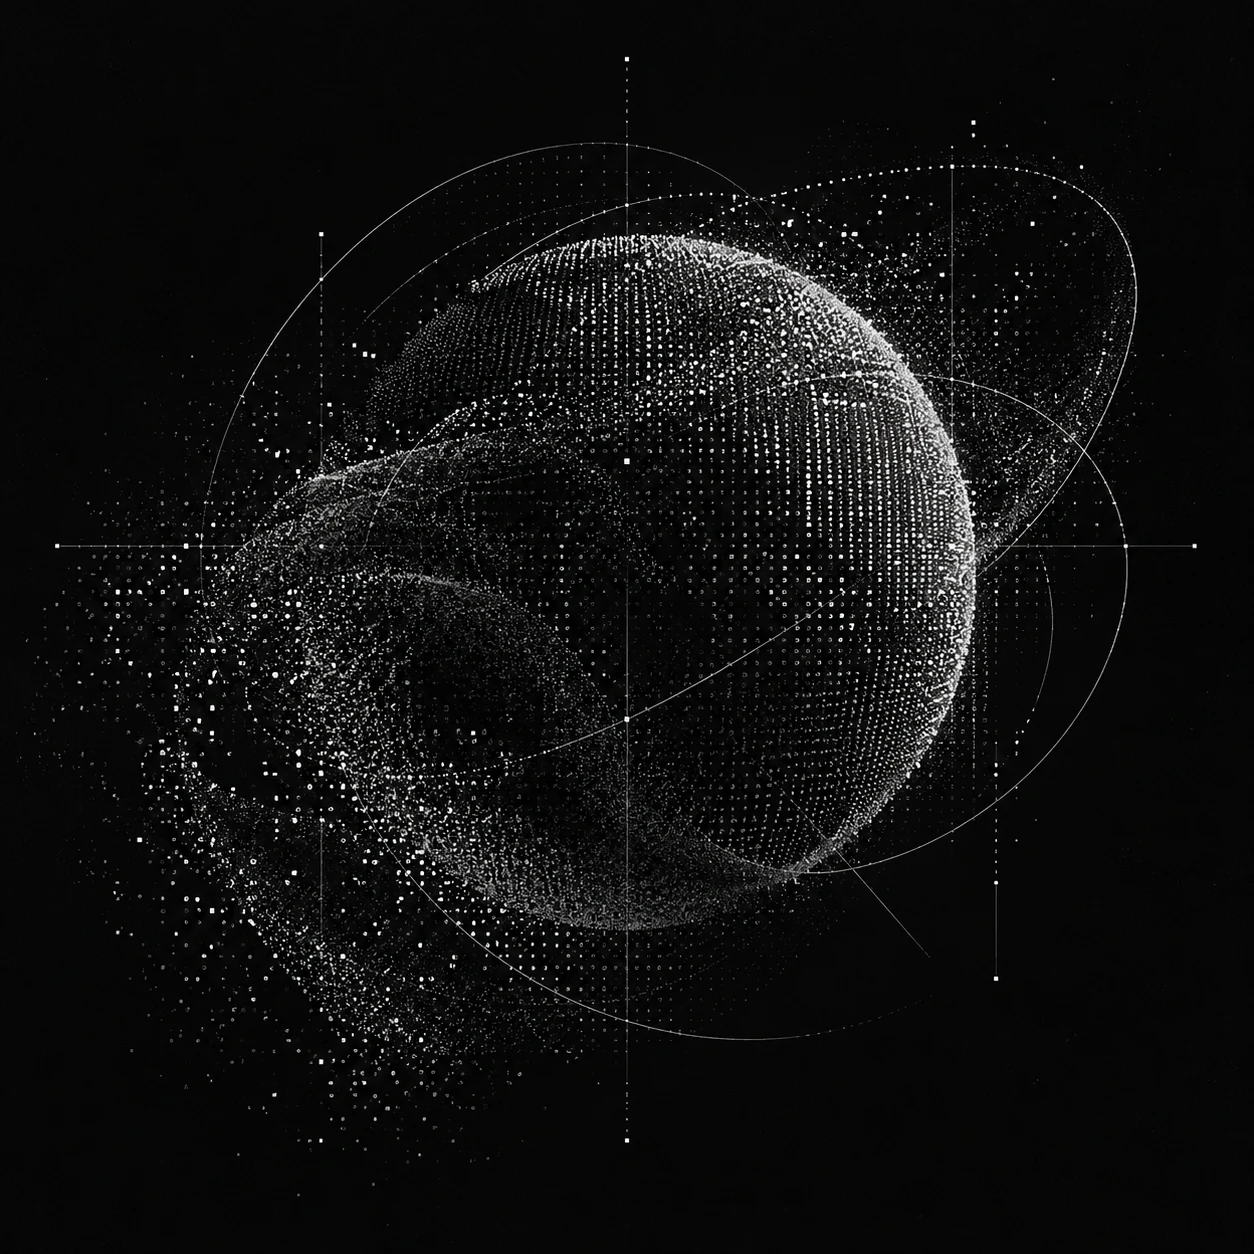
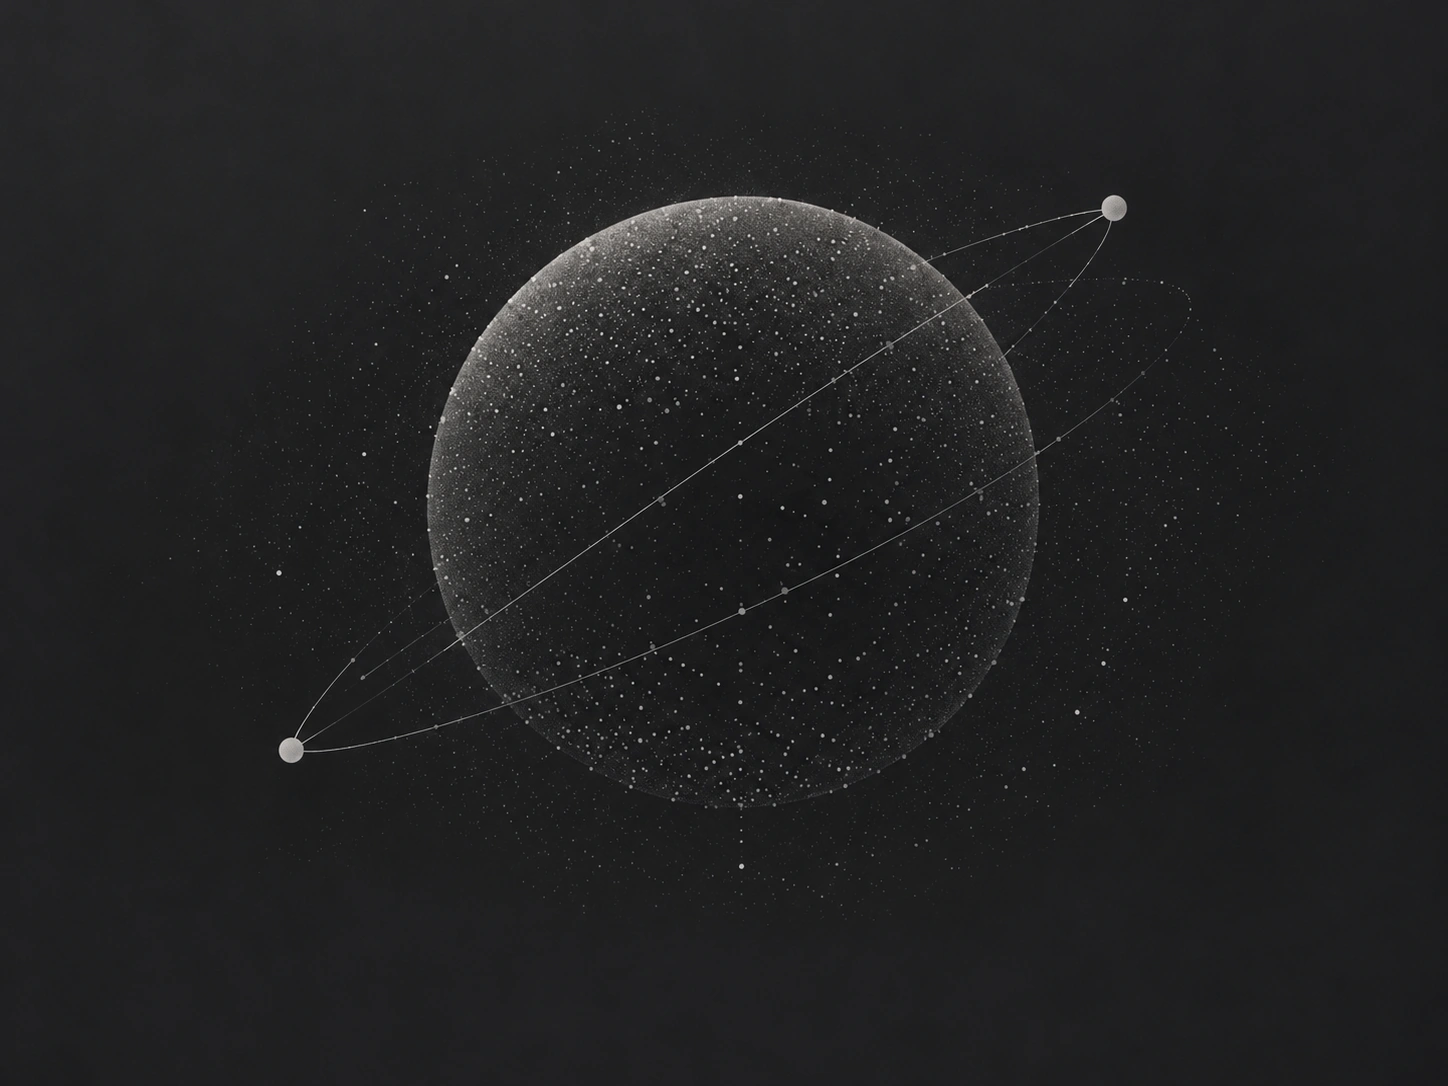
Refine interpretation artwork placement

diff --git a/index.html b/index.html
@@ -71,21 +71,21 @@
           </div>
           <div class="explanation-cards">
             <article class="explanation-card">
-              <div class="explanation-media"><img src="./assets/interpret-survey.webp" alt="" width="1254" height="1254" loading="lazy" decoding="async"></div>
+              <div class="explanation-media"><img src="./assets/interpret-survey.webp" alt="" width="1448" height="1086" loading="lazy" decoding="async"></div>
               <div class="explanation-card-body">
                 <h3>Pesquisa de referência</h3>
                 <p>A pesquisa mostra quais linguagens os participantes usaram no último ano. Ela indica adoção entre desenvolvedores, não quantidade de vagas.</p>
               </div>
             </article>
             <article class="explanation-card">
-              <div class="explanation-media"><img src="./assets/interpret-difficulty.webp" alt="" width="1254" height="1254" loading="lazy" decoding="async"></div>
+              <div class="explanation-media"><img src="./assets/interpret-difficulty.webp" alt="" width="1448" height="1086" loading="lazy" decoding="async"></div>
               <div class="explanation-card-body">
                 <h3>Dificuldade</h3>
                 <p>Nota estimada para iniciantes, considerando conceitos (35%), sintaxe (30%), complexidade técnica (20%) e ferramentas (15%). É um guia, não uma medida científica. SQL fica sem nota.</p>
               </div>
             </article>
             <article class="explanation-card">
-              <div class="explanation-media"><img src="./assets/interpret-comparison.webp" alt="" width="1254" height="1254" loading="lazy" decoding="async"></div>
+              <div class="explanation-media"><img src="./assets/interpret-comparison.webp" alt="" width="1448" height="1086" loading="lazy" decoding="async"></div>
               <div class="explanation-card-body">
                 <h3>Uso e popularidade</h3>
                 <p>Uso é o percentual de participantes que utilizaram cada linguagem. Popularidade transforma esse valor numa nota de 0 a 10, com JavaScript como referência.</p>
@@ -115,21 +115,21 @@
           </div>
           <div class="explanation-cards">
             <article class="explanation-card">
-              <div class="explanation-media"><img src="./assets/interpret-survey.webp" alt="" width="1254" height="1254" loading="lazy" decoding="async"></div>
+              <div class="explanation-media"><img src="./assets/interpret-survey.webp" alt="" width="1448" height="1086" loading="lazy" decoding="async"></div>
               <div class="explanation-card-body">
                 <h3>Pesquisa de referência</h3>
                 <p>A pesquisa mostra quais linguagens os participantes usaram no último ano. Ela indica adoção entre desenvolvedores, não quantidade de vagas.</p>
               </div>
             </article>
             <article class="explanation-card">
-              <div class="explanation-media"><img src="./assets/interpret-difficulty.webp" alt="" width="1254" height="1254" loading="lazy" decoding="async"></div>
+              <div class="explanation-media"><img src="./assets/interpret-difficulty.webp" alt="" width="1448" height="1086" loading="lazy" decoding="async"></div>
               <div class="explanation-card-body">
                 <h3>Dificuldade</h3>
                 <p>Nota estimada para iniciantes, considerando conceitos (35%), sintaxe (30%), complexidade técnica (20%) e ferramentas (15%). É um guia, não uma medida científica. SQL fica sem nota.</p>
               </div>
             </article>
             <article class="explanation-card">
-              <div class="explanation-media"><img src="./assets/interpret-comparison.webp" alt="" width="1254" height="1254" loading="lazy" decoding="async"></div>
+              <div class="explanation-media"><img src="./assets/interpret-comparison.webp" alt="" width="1448" height="1086" loading="lazy" decoding="async"></div>
               <div class="explanation-card-body">
                 <h3>Uso e popularidade</h3>
                 <p>Uso é o percentual de participantes que utilizaram cada linguagem. Popularidade transforma esse valor numa nota de 0 a 10, com JavaScript como referência.</p>
